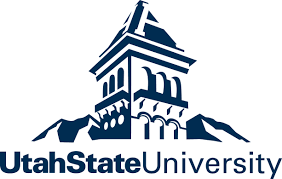
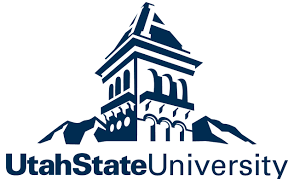
this is a huge commit, I fixed the school and skill tabbs on the about.html i added outline.html.css and added a link to it on index.html

Changed region(s): [[0.1135, 0.0, 0.9078, 0.8101], [0.0, 0.838, 1.0, 1.0]]

diff --git a/outline.html b/outline.html
@@ -1,0 +1,93 @@
+<!DOCTYPE html>
+<html>
+	<head>
+		<meta charset="utf-8">
+
+		<title>Todd Judd</title>
+		<meta name="description" content="My portfolio and work space for my current projects.">
+
+		<!-- Mobile -->
+		<meta name="viewport" content="width=device-width, minimum-scale=1.0, initial-scale=1.0, user-scalable=yes">
+
+		<!-- Chrome / Android -->
+		<meta name="mobile-web-app-capable" content="yes">
+		<meta name="theme-color" content="black">
+		<link rel="icon" href="icon.png">
+
+		<!-- Safari / iOS -->
+		<meta name="apple-mobile-web-app-capable" content="yes">
+		<meta name="apple-mobile-web-app-status-bar-style" content="black">
+		<link rel="apple-touch-icon-precomposed" href="apple-touch-icon.png">
+
+		<!-- Web Components -->
+		<script src="bower_components/webcomponentsjs/webcomponents-lite.js"></script>
+		<link rel="import" href="bower_components/paper-button/paper-button.html">
+		<link rel="import" href="bower_components/iron-icons/iron-icons.html">
+		<link rel="import" href="bower_components/paper-material/paper-material.html">
+		<link rel="import" href="bower_components/iron-collapse/iron-collapse.html">
+
+		<link rel="stylesheet" type="text/css" href="style.css">
+		<link rel="stylesheet" type="text/css" href="outline.css">
+
+	</head>
+	<body fulllbleed>
+		<nav>
+			<h1>D. Todd Judd</h1>
+			<span></span>
+			<a href="/">Home</a>
+			<a href="/about.html">About</a>
+			<a href="/scroll.html">Projects</a>
+		</nav>
+		<div>
+			<h1>The Top Attackers in Rainbow Six Siege</h1>
+			<br>
+			<p>Here is a list of the best attackers in Rainbos Six Siege!</p>
+			<ol>
+				<li>Glaz</li>
+				<br>
+				<ul>
+					<p><img src="/resources/glaz.png">Timur "Glaz" Glazkov is an Attacking Operator featured in Tom Clancy's Rainbow Six Siege. He holds a medium armor and mobility rating and features a HDS Flip sight as his unique ability for his signature OTs-03 marksman rifle.</p>
+					<li>Glaz's OTS-03 DMR is a man killer and provides max stopping power at all distances</li>
+					<li>Glaz's HDS Flip Scop allows him to extend his kill range and scale it back to fit his situation. this lets him sit back and keep the enemy at bay or move up to the close range fight and push the objective.</li>
+					<li>Finaly Glaz has 2 armor and 2 speed this means he can get up and move when necessecary but he can still take a hit with out going down.</li>
+				</ul>
+				<br>
+				<li>Sledge</li>
+				<br>
+				<ul>
+					<p><img src="/resources/sledge.png">Seamus Cowden hails from the upper tip of the Scottish Highlands. Due to his imposing physical stature and athleticism, he found early success as the Captain of the 1998 Scotland National under-20 Rugby Union Team. Having a strong desire for public service, it inspired Cowden to enlist in the army at 18 where he was assigned to the 3rd Divison. After five years of active duty, he was recruited by the SAS.</p>
+					<li>Using the hammer makes less noise than an exploding breaching charge, so you can use it to surprise your enemy by creating a path from an unexpected direction.</li>
+					<li>Sledge is the operator to choose for quick and relatively silent destruction. His breaching hammer can be used to quickly go through multiple destructible walls, floors and barricades</li>
+					<li>Though impractical, Sledge's breaching hammer is capable of killing enemies in one hit. This as a humiliating kill, ant worth it if you pull it off.</li>
+				</ul>
+				<br>
+				<li>Thermite</li>
+				<br>	
+				<ul>
+					<p><img src="/resources/thermite.png">Jordan "Thermite" Trace is an Attacking Operator featured in Tom Clancy's Rainbow Six Siege. He has a medium armor and mobility rating and is the only Operator capable of breaching reinforced walls with the Brimstone BC-3 Exothermic Charge.</p>
+					<li>Thermite is an unstoppable breacher, a very useful operator to pick while playing against enemies who are heavy on fortifications.</li>
+					<li>He is the only Operator that can blow up reinforced walls with his exothermic charge. You can either customize Thermite's loadout with Frag Grenades, to attack enemies following a breach, or with the standard Breach Charge, to flank the enemies' defenses and use one of the charges as a diversion.</li>
+					<li>Be careful though: exothermic charges can't be detonated while inside a Jamming Device radius so make sure it is clear of one before wasting your charges. They can also be disabled once triggered if they are shot or receive explosive damage before they detonate.</li>
+				</ul>
+				<br>
+				<li>Montagne</li>
+				<br>
+				<ul>
+					<p><img src="/resources/montagne.png">The son of an army officer and school teacher, Montagne's family was stationed near Bordeaux, France. A few years after he graduated from high school, Montagne became a member of the National Gendarmerie. Dedicating his life to the defense work, his commitment has allowed him to obtain a position on the GIGN. After many years of service and involvement in numerous incidents such as the 1994 French Airline hijacking, Montagne has become the longest-serving GIGN operative.</p>
+					<li>Montagne is the ultimate pointman to breach the enemy lines: he can expand his shield to fully cover him from head-to-toe while standing, providing extra cover for him and those behind him.</li>
+					<li>The inclined top part also provide extra cover from enemy fire from above. While Montagne’s shield is expanded, he cannot use weapons or do melee, so make sure you have a teammate with you that can engage in combat while protected by Montagne.</li>
+					<li>Montagne is very useful to block a tight area from enemy fire since he cannot have his shield stance broken by melee attacks, but be careful in open areas: Montagne is slower when the shield is expanded and his back is left open to enemy fire.</li>
+				</ul>
+				<br>
+				<li>Ash</li>
+				<br>
+				<ul>
+					<p><img src="/resources/ash.png">Born and raised in Jerusalem, Israel, Cohen enrolled at Tel Aviv University after secondary school in the Engineering program. It was during this time she did a semester abroad in Boston University. After college, she enlisted in the Israeli Defense Forces. Her engineering background made her a great candidate for mechanical maintenance and demolitions..</p>
+					<li>Ash can fire 2 remote breaching charges to surfaces that would normally be hard or impossible to reach, like higher windows or even ceilings: enemies rarely expect the floor beneath them to blow up so use this to surprise them.</li>
+					<li>Remote breaches will detonate automatically once they get stuck on a wall, meaning that they cannot be affected by a Jamming Device, making them the best way to breach against a team with Mute in its rank.</li>
+					<li>The Remote Breach Launcher is also very useful to destroy a wall from a safe distance if you expect enemy fire. Keep in mind that it is not a rocket launcher and will do reduced damage to players.</li>
+				</ul>
+			</ol>
+		</div>
+	</body>
+</html>

diff --git a/about.html b/about.html
@@ -63,7 +63,7 @@
 		<paper-material elevation="2" vertical left layout class="card">
 		<div Class="card-title">Education</div>
 			<div class="education">
-				<img src="resources/SLCC.jpg">
+				<img src="resources/SLCC.jpg" class="school-logo">
 				<div class="education-text">
 					<h3>Salt Lake Comunity College</h3>
 					<span  class="education-right"></span>
@@ -72,11 +72,11 @@
 				</div>
 			</div>
 			<div class="education">
-				<img src="resources/USU.jpg">
+				<img src="resources/USU.jpg" class="school-logo">
 				<div class="education-text">
 					<h3>Utah State University</h3>
 					<span  class="education-right"></span>
-					<h3> 2016 - </h3>
+					<h3> 2016 - Present</h3>
 					<p>Recenly accepted to Utah State University, I'll be attending fall of 2016 with the goal of obtaining a BS in Computer Science focusing on networking and programing.</p>
 				</div>
 			</div>
@@ -87,24 +87,37 @@
 		<div class="skill-container">
 			<paper-material elevation="3" class="skill-tag">
 				<img src="resources\html5.png" class="skill-img">
-				<h1>HTML 5</h1>
+				<h1>HTML&nbsp;5</h1>
+			</paper-material>
+			<paper-material elevation="3" class="skill-tag">
+				<img src="resources\css.png" class="skill-img">
+				<h1>CSS&nbsp;3</h1>
 			</paper-material>
 			<paper-material elevation="3" class="skill-tag">
 				<img src="resources\polymer.svg" class="skill-img">
 				<h1>Polymer</h1>
 			</paper-material>
 			<paper-material elevation="3" class="skill-tag">
+				<img src="resources\git.png" class="skill-img">
+				<h1>Git</h1>
+			</paper-material>
+			<paper-material elevation="3" class="skill-tag">
+				<img src="resources\mysql.png" class="skill-img">
+				<h1>MySql</h1>
+			</paper-material>
+			<paper-material elevation="3" class="skill-tag">
 				<img src="resources\photoshop.png" class="skill-img">
-				<h1>Adobe Photo Shop</h1>
+				<h1>Adobe&nbsp;Photo&nbsp;Shop</h1>
 			</paper-material>
 			<paper-material elevation="3" class="skill-tag">
 				<img src="resources\illistrator.png" class="skill-img">
-				<h1>Adobe Illistrator</h1>
+				<h1>Adobe&nbsp;Illistrator</h1>
 			</paper-material>
 			<paper-material elevation="3" class="skill-tag">
 				<img src="resources\office15.ico" class="skill-img">
-				<h1>Office 2013</h1>
+				<h1>Office&nbsp;2013</h1>
 			</paper-material>
+			<span></span>
 		</div>
 		</paper-material>
 	</div>

diff --git a/Index.html b/Index.html
@@ -38,11 +38,22 @@
 		<a href="/scroll.html">Projects</a>
 	</nav>
 	<div class="content">
-		<ul>
-			<li><h3>My Current Projects</h3></li>
-			<li><a href="/first.html"><h4>CSIS 1430 - Lab 1</h4></a></li>
-			<li><p>First lab for HTML class.</p></li>
-		</ul>
+		<ol>
+			<li>
+				<ul>
+					<li><h3>My First Project</h3></li>
+					<li><a href="/first.html"><h4>CSIS 1430 - Lab 1</h4></a></li>
+					<li><p>First lab for HTML class.</p></li>
+				</ul>
+			</li>
+			<li>
+				<ul>
+					<li><h3>Rainbow Six Siege Outline</h3></li>
+					<li><a href="/outline.html"><h4>CSIS 1430 - Lab 3</h4></a></li>
+					<li><p>Outline of Rainbow Six Siege attackers using html elements such as ul li ol and more.</p></li>
+				</ul>
+			</li>
+		</ol>	
 	</div>
 	<div class="legal">
 		

diff --git a/about.css b/about.css
@@ -75,10 +75,10 @@ nav {
 	height: 160px;
 }
 
-.school-logos {
+.school-logo {
 	margin: 10px 60.281px 10px 10px;
 	padding: 8px;
-	width: 200px;
+	width: 300px;
 }
 
 .school-text {
@@ -89,7 +89,17 @@ nav {
 
 .skill-container {
 	display:flex;
+	flex-wrap:wrap;
+	
+}
 
+.skill-container > h1 {
+	padding:8px;
+	margin:8px;
+}
+
+.skill-container > span {
+	flex:2;
 }
 
 .skill-img {
@@ -104,6 +114,9 @@ nav {
 	margin: auto;
 	min-height: 80px;
 	flex:1;
+	display:flex;
+	flex-direction:row;
+	flex-wrap:nowrap;
 }
 
 .spacer {

diff --git a/outline.css b/outline.css
@@ -1,0 +1,29 @@
+@import url(https://fonts.googleapis.com/css?family=Roboto);
+
+@import "compass/css3";
+
+body {
+	font-family: 'roboto', sans-serif;
+	color:white;
+	background-color:#1a1a1a;
+}
+
+h1 {
+	text-align: center;
+}
+
+img {
+	float:left;
+	padding:8px;
+	margin:8px;
+}
+
+ul {
+	list-style: disc;
+}
+
+ol > li {
+	font-weight: bold;
+	font-size:20pt;
+}
+
